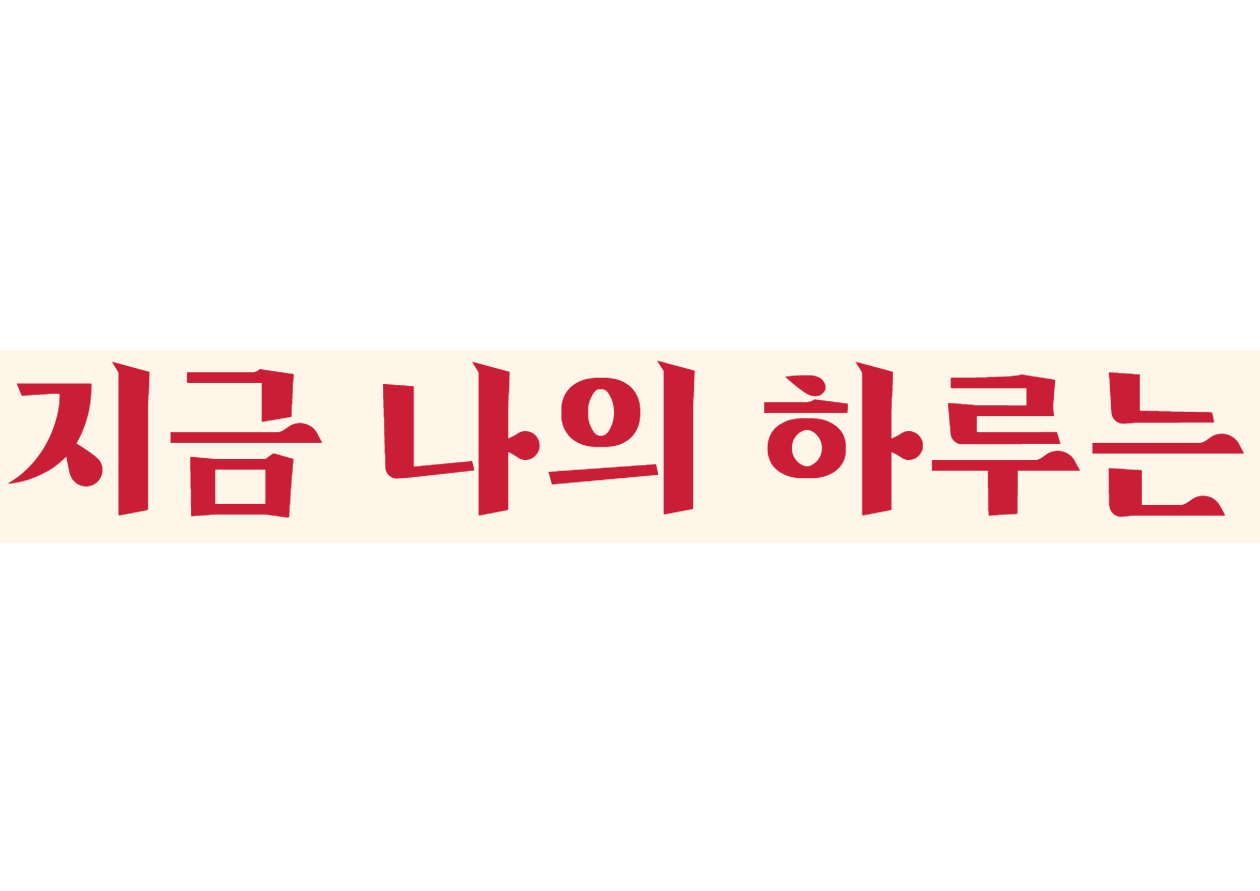
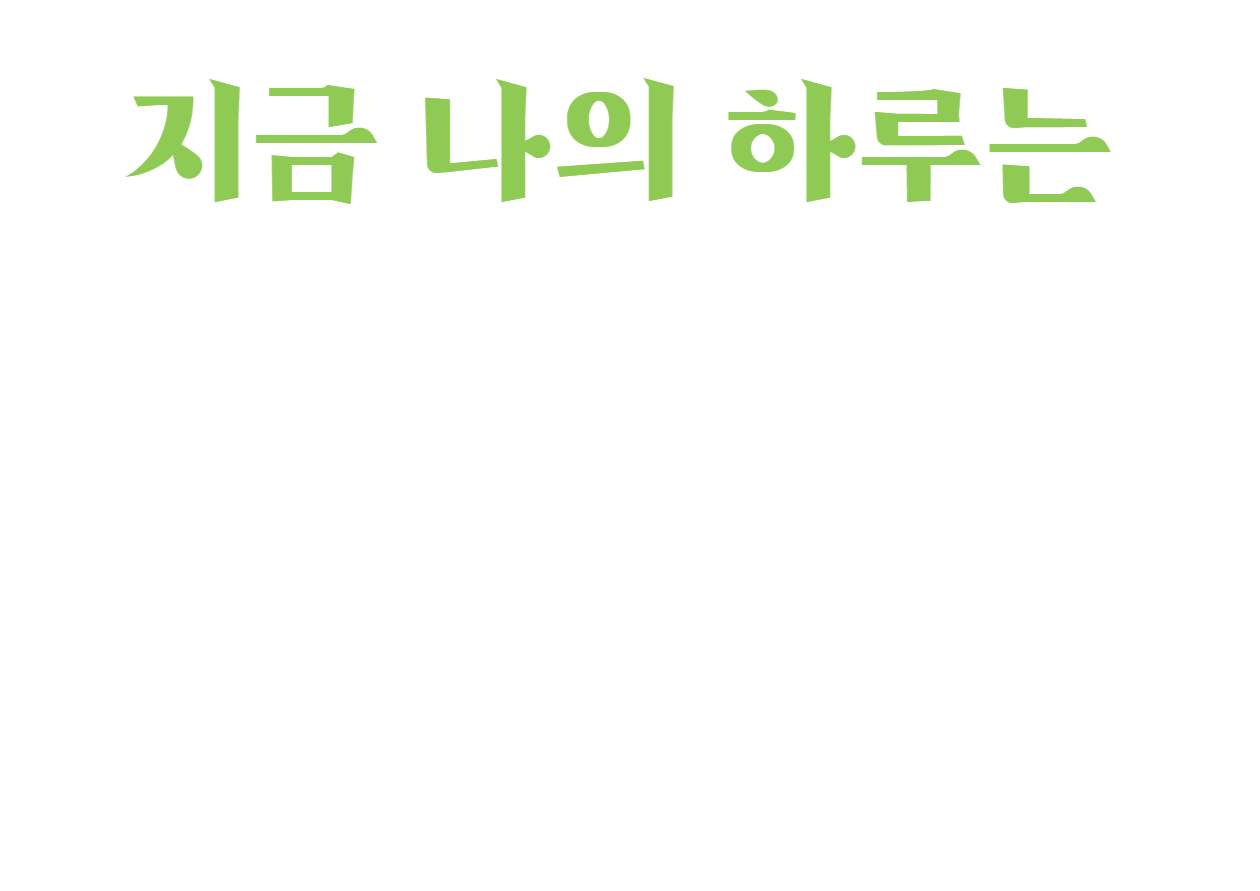
[S06P31C205-151] 렌딩페이지 제작

diff --git a/front/src/components/Landing/LandingImage.jsx b/front/src/components/Landing/LandingImage.jsx
@@ -1,5 +1,6 @@
 import { useNavigate } from 'react-router-dom'
 import styled, { keyframes } from 'styled-components'
+import Fade from 'react-reveal/Fade'
 
 function LandingImage() {
   const navigate = useNavigate()
@@ -9,87 +10,99 @@ function LandingImage() {
   }
 
   return (
-    <StyledImageArea>
-      <StyledBackgroundArea>
-        <StyledBackgroundImage src="/images/diary-2.png" />
-      </StyledBackgroundArea>
+    <StyledContainer>
+      <StyledBackground />
 
-      <StyledFrontImage>
-        <img src="/images/title-004.png" style={{ width: '80%' }} />
-      </StyledFrontImage>
-      <StyledButton>
-        <img src="/images/button-001.png" style={{ width: '40%' }} onClick={onClick} />
-      </StyledButton>
-      {/* <StyledTitle>
-          <img src="/images/title-002.png" style={{ width: '80%' }} />
-        </StyledTitle>
-        <StyledSubTitle>
-          <img src="/images/title-003.png" style={{ width: '60%' }} />
-        </StyledSubTitle> */}
-    </StyledImageArea>
+      <StyledTitle>
+        <img src="/images/title-004.png" style={{ width: '60rem' }} />
+      </StyledTitle>
+
+      <StyledImage>
+        <img src="/images/diary-2.png" style={{ width: '100%', opacity: '80%' }} />
+      </StyledImage>
+      <Fade left>
+        <StyledSubTitle style={{ marginTop: '-1.5rem', marginLeft: '-12rem' }}>
+          <img src="/images/title-005.png" style={{ width: '60rem' }} />
+        </StyledSubTitle>
+      </Fade>
+      <Fade right>
+        <StyledSubTitle style={{ marginTop: '-7rem', marginRight: '-15rem' }}>
+          <img src="/images/title-006.png" style={{ width: '60rem' }} />
+        </StyledSubTitle>
+      </Fade>
+    </StyledContainer>
   )
 }
 
-const animate = keyframes`
-0% {
-  left: -10%;
-  top: -50%;
-}
-100% {
-  left: 0%;
-  top: 0%
-}
-`
-
-const StyledImageArea = styled.div`
+const StyledContainer = styled.div`
   position: relative;
-  height: 55rem;
-  overflow: hidden;
-  background: #ffdae5;
-  border: solid 1px black;
-`
-
-const StyledBackgroundArea = styled.div`
-  position: relative;
-  top: 7rem;
-  left: 16vw;
-  width: 60vw;
   height: 40rem;
   overflow: hidden;
   background: #fff;
-  border: solid 1px red;
-`
-
-const StyledBackgroundImage = styled.img`
-  width: 120%;
-  position: relative;
-  opacity: 0.5;
-  animation: ${animate} 8s linear infinite alternate;
-`
-
-const StyledFrontImage = styled.div`
-  position: absolute;
-  top: 0;
-  left: 0;
-  width: 100%;
-`
-
-const StyledButton = styled.div`
-  position: absolute;
-  top: 25rem;
-  left: 4rem;
+  //   border: solid 1px black;
 `
 
 const StyledTitle = styled.div`
   position: absolute;
-  top: 18rem;
-  left: -5rem;
+  top: 0;
+  right: 0;
+  bottom: 0;
+  left: 0;
+  margin-top: -1.3rem;
 `
 
+const StyledBackground = styled.div`
+  position: absolute;
+  top: 0;
+  right: 0;
+  bottom: 0;
+  left: 0;
+  margin: 5.5rem auto auto auto;
+  width: 70rem;
+  height: 30rem;
+  background: #ffdae5;
+`
+
+const StyledImage = styled.div`
+  position: absolute;
+  top: 3rem;
+  right: 0;
+  bottom: 0;
+  left: 0;
+  width: 35rem;
+  height: 20rem;
+  overflow: hidden;
+  margin: auto;
+`
 const StyledSubTitle = styled.div`
   position: absolute;
-  top: 1rem;
-  right: -12rem;
+  top: 0;
+  right: 0;
+  bottom: 0;
+  left: 0;
+  //   margin-top: -1.5rem;
 `
+
+// const animate = keyframes`
+// 0% {
+//   left: -10%;
+//   top: -50%;
+// }
+// 100% {
+//   left: 0%;
+//   top: 0%
+// }
+// `
+
+// const scaleInAnimate = keyframes`
+// 0% {
+//     transform: scale(1);
+//     opacity: 1;
+//   }
+//   100% {
+//     transform: scale(1.1);
+//     opacity: 1;
+//   }
+// `
 
 export default LandingImage

diff --git a/front/src/components/Landing/LadingInfo.jsx b/front/src/components/Landing/LadingInfo.jsx
@@ -1,5 +1,8 @@
 import { useNavigate } from 'react-router-dom'
 import styled, { keyframes } from 'styled-components'
+import Fade from 'react-reveal/Fade'
+import { Space, Button, Typography } from 'antd'
+import { LoginOutlined } from '@ant-design/icons'
 
 function LandingInfo() {
   const navigate = useNavigate()
@@ -10,37 +13,68 @@ function LandingInfo() {
 
   return (
     <>
-      <StyledInfoArea>
-        <StyledRightImage src="/images/diary-3.png" />
-      </StyledInfoArea>
-      <StyledInfoArea></StyledInfoArea>
+      <StyledContainer>
+        <Fade>
+          <StyledTitle src="/images/title-007.png" />
+        </Fade>
+        <Fade right>
+          <StyledImage>
+            <img src="/images/diary-3.png" style={{ width: '100%' }} />
+          </StyledImage>
+        </Fade>
+        <Fade left>
+          <StyledSubTitle src="/images/title-008.png" />
+          <StyledButton onClick={onClick}>시작하기</StyledButton>
+        </Fade>
+      </StyledContainer>
     </>
   )
 }
 
-const rightAnimate = keyframes`
-// 0% {
-//   right: -10%;
-//   top: 0;
-// }
-// 100% {
-//     right: 0%;
-//     top: 0;
-// }
-    from { transform: translateY(5rem); opacity: 0; }
-    to { transform: translateY(0); opacity: 1; }
-`
-const StyledInfoArea = styled.div`
+const StyledContainer = styled.div`
   position: relative;
-  height: 30rem;
+  height: 40rem;
   overflow: hidden;
-  background: #ffdae5;
-  border: solid 1px black;
+  background: #fff;
+  //   border: solid 1px black;
 `
 
-const StyledRightImage = styled.img`
-  position: relative;
-  animation: ${rightAnimate} 2s;
+const StyledTitle = styled.img`
+  position: absolute;
+  top: -6rem;
+  right: 0;
+  bottom: 0;
+  left: 4rem;
+  width: 70rem;
+`
+
+const StyledImage = styled.div`
+  position: absolute;
+  top: 12rem;
+  right: 0;
+  bottom: 0;
+  left: 44rem;
+  width: 35rem;
+  height: 23rem;
+  overflow: hidden;
+`
+
+const StyledSubTitle = styled.img`
+  position: absolute;
+  top: -6.5rem;
+  right: 0;
+  bottom: 0;
+  left: 4.5rem;
+  width: 70rem;
+`
+
+const StyledButton = styled(Button)`
+  position: absolute;
+  top: 30.5rem;
+  right: 0;
+  bottom: 0;
+  left: 10.5rem;
+  width: 6rem;
 `
 
 export default LandingInfo

diff --git a/front/src/hooks/useScrollFadeIn.js b/front/src/hooks/useScrollFadeIn.js
@@ -1,0 +1,40 @@
+import { useRef, useEffect, useCallback } from 'react'
+
+const useScrollFadeIn = () => {
+  const dom = useRef()
+
+  const handleScroll = useCallback(([entry]) => {
+    const { current } = dom
+
+    if (entry.isIntersecting) {
+      current.style.transitionProperty = 'opacity transform'
+      current.style.transitionDuration = '1s'
+      current.style.transitionTimingFunction = 'cubic-bezier(0, 0, 0.2, 1)'
+      current.style.transitionDelay = '0s'
+      current.style.opacity = 1
+      current.style.transform = 'translate3d(0, 0, 0)'
+    }
+  }, [])
+
+  useEffect(() => {
+    let observer
+    const { current } = dom
+
+    if (current) {
+      observer = new IntersectionObserver(handleScroll, { threshold: 0.7 })
+      observer.observe(current)
+
+      return () => observer && observer.disconnect()
+    }
+  }, [handleScroll])
+
+  return {
+    ref: dom,
+    style: {
+      opacity: 0,
+      transform: 'translate3d(0, 50%, 0)',
+    },
+  }
+}
+
+export default useScrollFadeIn

diff --git a/front/src/App.jsx b/front/src/App.jsx
@@ -61,16 +61,17 @@ function App() {
 }
 
 const StyledContent = styled(Content)`
-  margin-top: 3rem;
+  margin-top: 2rem;
   padding: 3rem;
-  border: 1px solid red;
+  // border: 1px solid red;
   background-image: url('/images/background.PNG');
 `
 
 const StyledContentArea = styled.div`
   min-height: 80vh;
   padding: 1rem;
-  background: rgba(200, 200, 200, 0.5);
+  // background: rgba(200, 200, 200, 0.5);
+  background: #fff;
 `
 
 export default App
